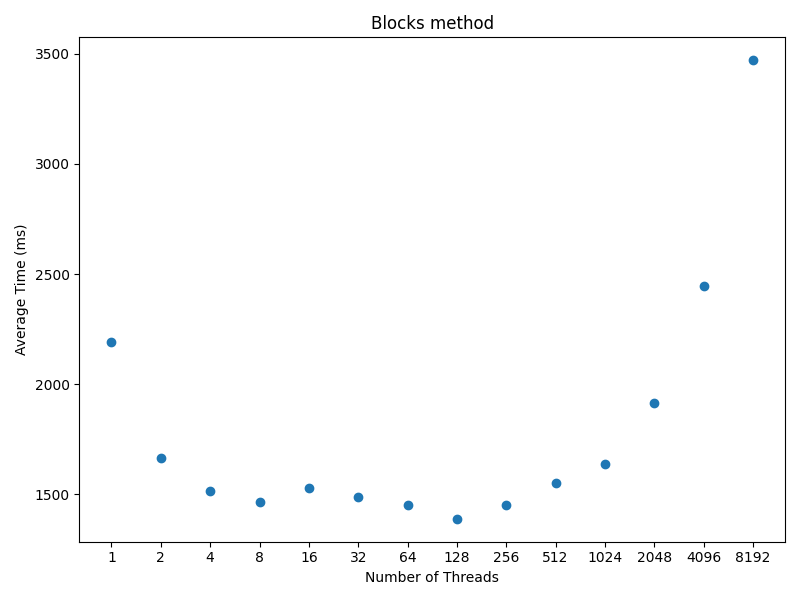
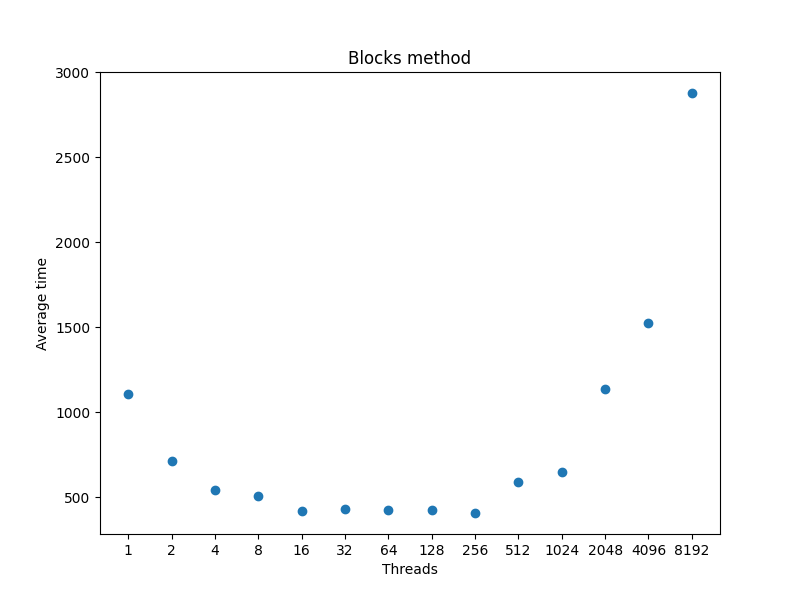
Update image recolor methods performance tests results

diff --git a/ImageRecolor/src/main/java/BlocksMethod/README.md b/ImageRecolor/src/main/java/BlocksMethod/README.md
@@ -2,19 +2,19 @@
 
 | Threads | Average Time |
 |---------|--------------|
-| 1       | 2192ms       |
-| 2       | 1663ms       |
-| 4       | 1515ms       |
-| 8       | 1466ms       |
-| 16      | 1528ms       |
-| 32      | 1485ms       |
-| 64      | 1452ms       |
-| 128     | 1388ms       |
-| 256     | 1449ms       |
-| 512     | 1552ms       |
-| 1024    | 1636ms       |
-| 2048    | 1914ms       |
-| 4096    | 2446ms       |
-| 8192    | 3471ms       |
+| 1       | 1106ms       |
+| 2       | 713ms        |
+| 4       | 540ms        |
+| 8       | 510ms        |
+| 16      | 416ms        |
+| 32      | 431ms        |
+| 64      | 425ms        |
+| 128     | 427ms        |
+| 256     | 407ms        |
+| 512     | 588ms        |
+| 1024    | 651ms        |
+| 2048    | 1135ms       |
+| 4096    | 1523ms       |
+| 8192    | 2879ms       |
 
 ![Performance Graph](images/results.png)

diff --git a/ImageRecolor/src/main/java/SlicesMethod/README.md b/ImageRecolor/src/main/java/SlicesMethod/README.md
@@ -2,19 +2,19 @@
 
 | Threads | Average Time |
 |---------|--------------|
-| 1       | 2087ms       |
-| 2       | 1653ms       |
-| 4       | 1449ms       |
-| 8       | 1412ms       |
-| 16      | 1376ms       |
-| 32      | 1349ms       |
-| 64      | 1356ms       |
-| 128     | 1379ms       |
-| 256     | 1452ms       |
-| 512     | 1468ms       |
-| 1024    | 1548ms       |
-| 2048    | 1914ms       |
-| 4096    | 2461ms       |
-| 8192    | 2316ms       |
+| 1       | 1060ms       |
+| 2       | 670ms        |
+| 4       | 465ms        |
+| 8       | 417ms        |
+| 16      | 354ms        |
+| 32      | 360ms        |
+| 64      | 351ms        |
+| 128     | 359ms        |
+| 256     | 403ms        |
+| 512     | 463ms        |
+| 1024    | 548ms        |
+| 2048    | 937ms        |
+| 4096    | 1551ms       |
+| 8192    | 1485ms       |
 
 ![Performance Graph](images/results.png)
